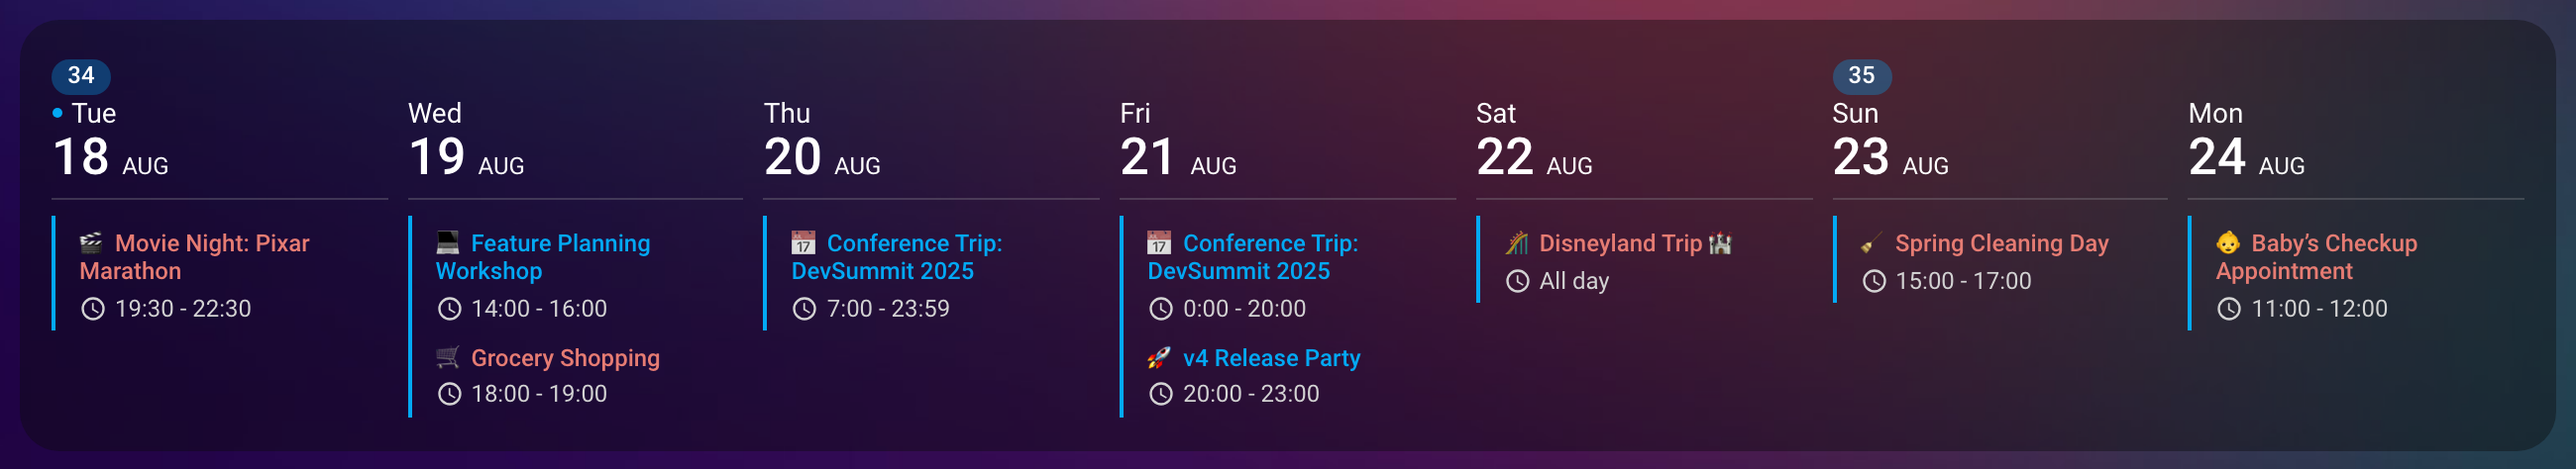
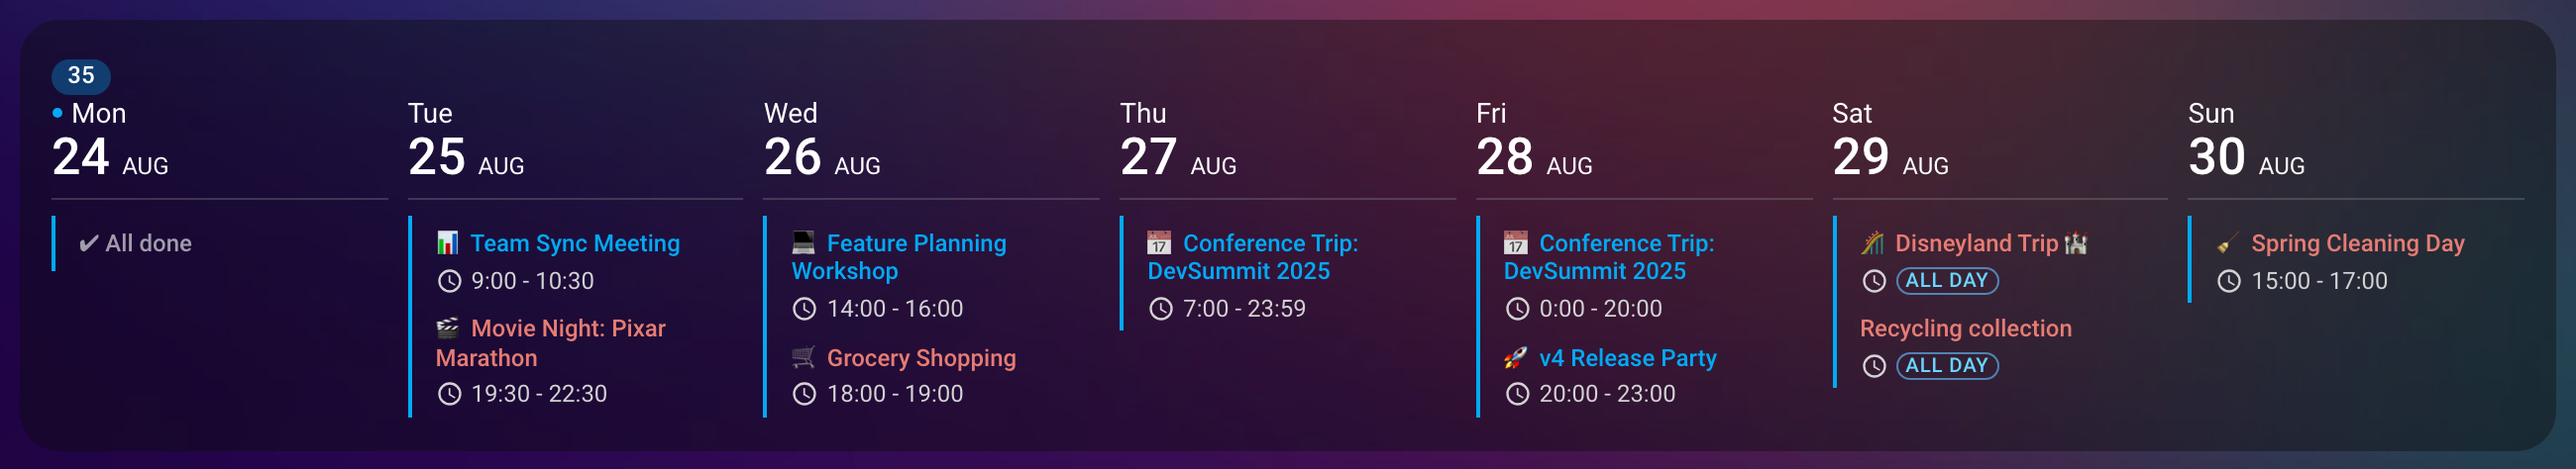
feat(release): make the all-day badge v4.1's flagship, in the docs and the images
Drops the boolean `true`. It was a leftover from when the option was a toggle
with one treatment; with five named treatments there is no "on" for it to mean,
and six values — one of which is the default — is the whole surface. `false`
stays, because it is not "on": it is the named off value, and the one a user
writes if the default ever stops being it.

The default does NOT change. `subtle` as the shipped default was considered and
declined: this project has only ever moved a visual default in a major, under a
Breaking Changes heading, and v2.0.0 and v4.0.0 are the only releases carrying
one. The feature is announced loudly instead.

Distributing the modes across the examples ran into a fact worth recording:
**only five of the sixteen release capture cards contain an all-day event at
all.** A badge on any of the others renders nothing, so examples 1 through 4
could not show one without reshaping compositions that exist to stay comparable
across releases. Two documented examples carry it — the Full Configuration takes
`subtle`, the column week takes `outline`, chosen because a narrow column has no
room for a fill — and a dedicated hero card was added for the release notes and
the feature page rather than forcing the rest.

The hero card is APPENDED to its view. `capture-screenshots.mjs` addresses cards
by index, so inserting anywhere else would have silently repointed every later
shot at the wrong card — the kind of break that looks like a rendering change.
[…]

diff --git a/src/utils/helpers.ts b/src/utils/helpers.ts
@@ -569,20 +569,19 @@ export type AlldayBadgeMode = (typeof ALLDAY_BADGE_MODES)[number];
  * turning the feature *on* is the worst available answer, so this table is closed and
  * anything outside it means off.
  *
- * `true` maps to `subtle` rather than being rejected. The option shipped as a boolean on
- * this branch and live test cards still say `allday_badge: true`; keeping it is one line,
- * where dropping it would silently blank those cards rather than fail loudly.
+ * There is no boolean `true`. The option briefly accepted one, from when it was a toggle
+ * with a single treatment, and it resolved to `subtle` — but with five named treatments
+ * there is no "on" for it to mean. Six values, one of which is the default, is the whole
+ * surface; a seventh spelling that silently picks one of the five is a second answer to a
+ * question the config no longer asks. Dropped while the option is unreleased and free.
  *
- * `subtle` and not `tinted` because this is the same answer the shipped default will give
- * when it eventually moves off `false`: whatever "on" means with no further detail, it means
- * the quietest treatment. Two different answers to that question would be the surprise.
+ * `false` stays, because it is not "on" — it is the named off value, and the one a user
+ * writes to turn the badge off against a default that is not `false`.
  *
  * @param value - Configured `allday_badge` value, in any of its accepted shapes
  * @returns The treatment to draw, or `null` when no badge should be drawn
  */
 export function resolveAlldayBadgeMode(value: unknown): AlldayBadgeMode | null {
-  if (value === true) return 'subtle';
-
   if (typeof value === 'string') {
     const candidate = value.toLowerCase().trim();
     return (ALLDAY_BADGE_MODES as ReadonlyArray<string>).includes(candidate)

diff --git a/tests/allday-badge.test.ts b/tests/allday-badge.test.ts
@@ -270,17 +270,17 @@ describe('allday_badge', () => {
       }
     });
 
-    it('reads the boolean the option shipped as, and reads it as the quietest treatment', () => {
-      // Live test cards say `allday_badge: true`; dropping the boolean would blank them
-      // silently rather than loudly. It resolves to `subtle` and not `tinted` because that
-      // is the answer the shipped default will give when it moves off `false` — "on" with no
-      // further detail should mean one thing, not two.
+    it('draws nothing for a bare true, which is no longer a value', () => {
+      // The option briefly accepted a boolean `true` from when it was a toggle. With five
+      // named treatments there is no "on" for it to mean, so it is not a value and falls to
+      // the same answer as any other unrecognized one: off. `false` is unaffected — it is
+      // the named off value, not the absence of a value.
       const container = renderList(
         [allDayEvent('2026-06-18', '2026-06-19', 'Bin day')],
         buildConfig({ allday_badge: true, days_to_show: 5 }),
       );
 
-      expect(badgeIn(rowFor(container, 'Bin day'))?.className).toContain('allday-badge-subtle');
+      expect(badgeIn(rowFor(container, 'Bin day'))).toBeNull();
     });
 
     it('is case- and whitespace-tolerant, because YAML is', () => {

diff --git a/src/rendering/styles.ts b/src/rendering/styles.ts
@@ -844,7 +844,10 @@ export const cardStyles = css`
   .allday-badge-neutral {
     color: inherit;
     background-color: transparent;
-    box-shadow: inset 0 0 0 1px color-mix(in srgb, currentColor 40%, transparent);
+    /* Full currentColor, not a fraction of it: this treatment names no accent, so the frame
+       and the label are the same ink by definition. The other rings are deliberately weaker
+       because they sit against a wash and would otherwise read as a second colour. */
+    box-shadow: inset 0 0 0 1px currentColor;
   }
 
   /* Boundary with no wash. The inverse trade, and the right answer at a high

diff --git a/docs/RELEASE_NOTES.md b/docs/RELEASE_NOTES.md
@@ -9,6 +9,8 @@ title: Release Notes
 Here is what that buys you, in one config — a hallway tablet the whole household walks past:
 
 ```yaml
+allday_badge: subtle
+
 entities:
   # 🎂 Birthdays — the name and the age, nothing else
   - entity: calendar.family
@@ -38,11 +40,39 @@ entities:
     blocklist: 'Birthday of|collection|Work:'
 ```
 
-`Birthday of Lena Weber — All day` becomes **🎂 Lena Weber (32)**, and says 33 next year without anyone editing anything. Bin day retires itself at eleven. The children see that a parent is busy at nine, not that the meeting is a performance review. All four blocks are the **same calendar**, four times, and the last one's `blocklist` is exactly the union of the three allowlists above it — which is what stops anything being drawn twice or going missing.
+`Birthday of Lena Weber — All day` becomes **🎂 Lena Weber (32)**, and says 33 next year without anyone editing anything. Bin day retires itself at eleven, and while it is still up it says so in a small badge in that calendar's own colour rather than in the words _All day_. The children see that a parent is busy at nine, not that the meeting is a performance review. All four blocks are the **same calendar**, four times, and the last one's `blocklist` is exactly the union of the three allowlists above it — which is what stops anything being drawn twice or going missing.
 
 Four of the features below are in those twenty-seven lines, and not one of them is announced — you write what you want the row to say, and the card gets out of the way. The walkthrough is [One Calendar, Many Purposes](https://calendar-card-pro.alexpfau.com/guide/one-calendar-many-purposes); everything from here on is the parts list.
 
 ## 🎉 New Features
+
+### 🏷 All-Day Events, as a Badge
+
+<img src="https://raw.githubusercontent.com/alexpfau/calendar-card-pro/main/.github/img/example_allday_badge.png" alt="All-day events drawn as a badge in each calendar's own color" width="600"><br>
+
+**An all-day event can now say so in a small badge in its calendar's own color, instead of in the words _All day_.** It is the way nearly every calendar app draws one, and it turns a row that read as a sentence into a row that reads at a glance.
+
+```yaml
+allday_badge: subtle
+```
+
+Five treatments, from quietest to loudest — `neutral`, `outline`, `subtle`, `tinted`, `filled`:
+
+| Value     | What it draws                                                           |
+| --------- | ----------------------------------------------------------------------- |
+| `neutral` | An outline only, in the row's own text color rather than the calendar's |
+| `outline` | An outline only, in the calendar's accent color                         |
+| `subtle`  | A gentle wash of the accent, with no outline                            |
+| `tinted`  | Both — a wash inside a matching outline                                 |
+| `filled`  | A solid badge in the accent color                                       |
+
+**The badge is off by default**, so nothing changes until you ask for it. `subtle` is the one to try first.
+
+Every color is derived from the calendar's accent by the browser, which has two consequences worth knowing. A calendar whose `accent_color` is a theme variable works exactly like one written as a hex value — the card never has to resolve it. And on a browser supporting [OKLCH relative colors](https://developer.mozilla.org/en-US/docs/Web/CSS/CSS_colors/Relative_colors) the badge keeps the accent's saturation while adjusting only its lightness, so the label stays recognizably your calendar's color instead of fading toward grey; elsewhere it falls back to a slightly paler mix and everything still works.
+
+Which events get one follows a single rule: **the event has to occupy the whole of the day it is drawn on.** A timed meeting running Wednesday evening to Monday morning keeps its times — but with [`split_multiday_events`](https://calendar-card-pro.alexpfau.com/features/multi-day-events) on, that meeting's middle days _are_ whole days, and those rows get the badge while its first and last days keep their times. Anything following the label, such as a multi-day event's end date, stays as ordinary text.
+
+See [The All-Day Badge](https://calendar-card-pro.alexpfau.com/features/event-content#the-all-day-badge).
 
 ### 🎨 Follow the Colors and Icons Home Assistant Holds
 

diff --git a/README.md b/README.md
@@ -150,6 +150,7 @@ Swap `calendar.family` for one of your own `calendar.*` entities and you have a 
 
 ### Latest Release: v4.1
 
+- 🏷 **All-Day Events, as a Badge**: An all-day event can say so in a small badge in its calendar's own color instead of in the words _All day_ — [five treatments](https://calendar-card-pro.alexpfau.com/features/event-content#the-all-day-badge) from a bare outline to a solid chip, every color derived from the accent you already set. Off by default; `allday_badge: subtle` is the one to try first
 - 🎨 **Follow Home Assistant's Calendar Colors and Icons**: Set `accent_color` to `home-assistant` and each calendar takes [the color Home Assistant already holds for it](https://calendar-card-pro.alexpfau.com/features/core-settings), so it looks the same on every card — whether you picked that color by hand or Google Calendar imported it. Set a calendar's `label` the same way and it takes [that calendar's own icon](https://calendar-card-pro.alexpfau.com/features/core-settings#following-the-icon-from-home-assistant) too, so changing it in Home Assistant changes it here
 - 🧑 **A Person's Photo in Front of Their Calendar**: Set a calendar's `label` to a person entity ID and the card shows [that person's picture](https://calendar-card-pro.alexpfau.com/features/core-settings#showing-a-persons-picture) — four faces instead of four words on a household dashboard, with a person picker in the editor and nothing to look up. Replace the photo in Home Assistant and the card follows it
 - 🗂 **Split One Calendar by Event Type**: [`event_type`](https://calendar-card-pro.alexpfau.com/features/core-settings) takes `all`, `timed` or `all_day`, card-wide or per calendar — list one calendar twice, once each way, for a color on each, and [**Duplicate** in the editor](https://calendar-card-pro.alexpfau.com/features/editor#per-calendar-panels-actions) builds it for you

diff --git a/docs/reference/examples.md b/docs/reference/examples.md
@@ -106,7 +106,9 @@ one column at a time, at 998, 838 and 678 px, and reaches the `min_days_to_show:
 **518 px**.
 
 The `column:` block below tightens the type and hides the location, both of which cost more
-in a narrow column than they do in a full-width row.
+in a narrow column than they do in a full-width row. `allday_badge: outline` is chosen for the
+same reason: a column is narrow, and an outline is the one treatment carrying no fill to
+crowd it — see [The All-Day Badge](/features/event-content#the-all-day-badge).
 
 <img src="https://raw.githubusercontent.com/alexpfau/calendar-card-pro/main/.github/img/example_column_week.png" alt="A Week Side by Side, in Column View"><br>
 
@@ -122,6 +124,7 @@ days_to_show: 7
 show_week_numbers: iso
 today_indicator: true
 empty_day_text: '✔ All done'
+allday_badge: outline
 column:
   min_day_width: 150
   min_days_to_show: 3
@@ -194,6 +197,7 @@ show_end_time: true
 time_font_size: 12px
 time_color: '#baf1ff'
 time_icon_size: 14px
+allday_badge: subtle
 show_location: true
 remove_location_country: true
 location_font_size: 12px

diff --git a/docs/guide/installation.md b/docs/guide/installation.md
@@ -60,7 +60,7 @@ question. HACS does all of this for you, which is why it is the recommended rout
 ::: tip Optional: Compress The Files Yourself
 Home Assistant serves a pre-compressed `.gz` beside a file when it finds one, and does not
 compress on the fly. Neither install route ships one, so the card transfers at its full
-202 KB and the editor at 363 KB — once per version, then the browser caches both.
+202 KB and the editor at 362 KB — once per version, then the browser caches both.
 
 If you want the smaller transfer, create the companions yourself and keep them beside the
 originals:

diff --git a/docs/features/event-content.md b/docs/features/event-content.md
@@ -78,6 +78,8 @@ location_icon_size: '14px'
 
 ### The All-Day Badge
 
+<img src="https://raw.githubusercontent.com/alexpfau/calendar-card-pro/main/.github/img/example_allday_badge.png" alt="All-day events drawn as a badge in each calendar's own color" width="600"><br>
+
 By default an all-day event says so in words, on the same line as the clock icon. Set
 `allday_badge` to a treatment and the label becomes a rounded badge instead, the way most
 calendar apps draw it:
